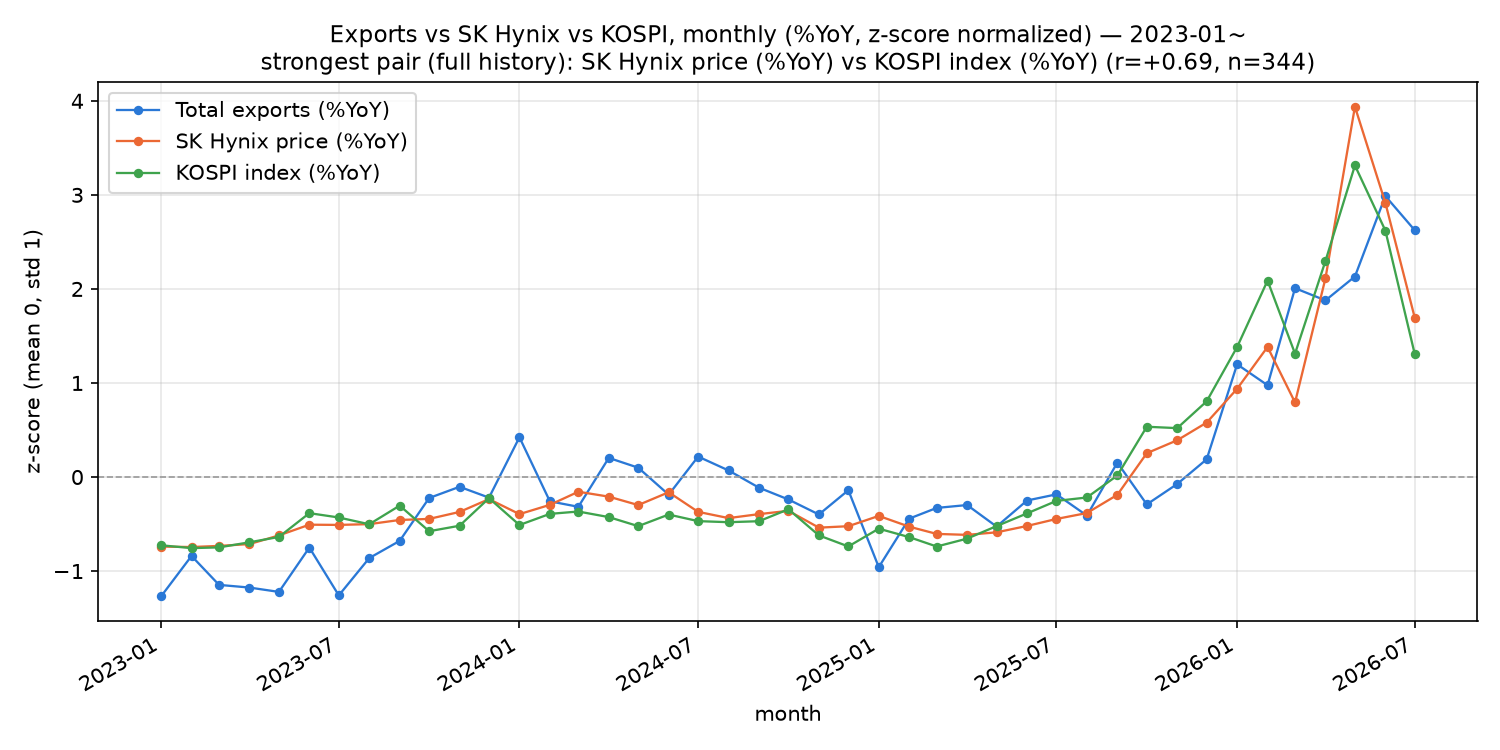
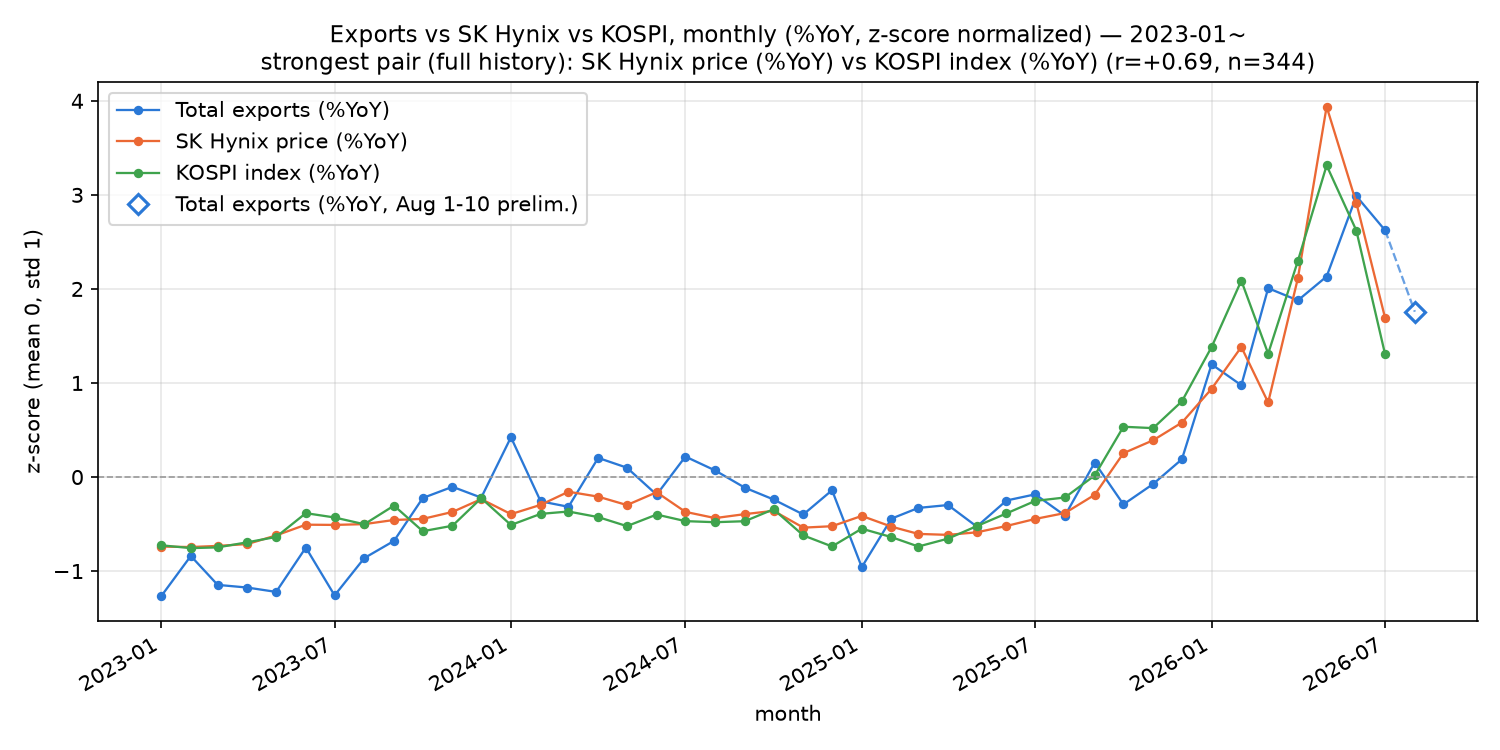
feat: 관세청 10일 잠정치를 차트에 '다음 점'으로 미리 표시
사용자 질문 → 답 → 반영:
'다음 수출입통계는 9월1일에 발표하는 건가? 그 전에 어느 수준인지 알 수
있는 방법이 있어?' — 있다: 관세청은 최종치(다음달 1일) 전에 1~10일
잠정치(그 달 11일), 1~20일 잠정치(21일)를 먼저 낸다. '잠정치를 조사해서
그래프에 적절히 추가해줘 ... 점도표나 점선으로 ... 예측 가능한 다음 점을
찍어보자'에 대한 구현:

- data/manual_inputs/exports_preliminary.yaml(신규, 수동) — 8월 1~10일
  잠정치 실제 값(관세청 2026-08-11 발표: 총수출 213억불 +45.3%YoY, 반도체
  99.5억불 +155.4%YoY, 출처 URL 포함). 구조화된 수출 API가 data.go.kr에
  없어(수입 쪽만 있음) 보도자료 손 갱신 방식 — CLAUDE.md 7.3류 예외와
  같은 성격.
- load_exports_preliminary(): latest 블록을 읽되, target_month가 오늘
  기준 '진행 중인 달'이 아니면 None — 달이 지나도록 안 갱신된 낡은
  잠정치가 잘못 찍히는 걸 막는다.
- _render_monthly_chart(월별 메인+확대 차트 공용): 총수출 실측 마지막
  점에서 점선으로 이어지는 속이 빈 파란 마름모로 잠정치를 그린다 — 실측과
  같은 파란색이지만 선/마커를 확실히 다르게 해서 확정치가 아님을 범례에서
  바로 알 수 있게. z-score는 실측 total_exports_yoy 시리즈의 평균/표준편차를
  그대로 재사용(잠정치 자체는 정규화 기준 계산에 안 넣음).
- render_markdown(): '진행 중인 달 잠정치' 절 추가 — 값·출처·근사 방법의
  한계(상반월≠월 전체, 조업일수·통관 타이밍 차이)를 명시. 표·상관계수
  계산에는 여전히 포함 안 함(총수출 %YoY 실측 시리즈는 순수하게 유지).

테스트 2개 추가(51/51 통과): 진행 중인 달과 일치할 때만 값 반환, 낡은
target_month는 무시.

diff --git a/scripts/correlation_analysis.py b/scripts/correlation_analysis.py
@@ -36,6 +36,15 @@ INPUTS (all real, no estimates)
   Price/index YoY% is derived here (close_m / close_{m-12} - 1) * 100 — it is
   not itself a stored series, so a short price history simply yields fewer
   YoY points rather than an error.
+  data/manual_inputs/exports_preliminary.yaml   2026-08-17 added — 관세청
+    10일 단위 수출입 현황 [잠정치] (1~10일 released day 11, 1~20일 released
+    day 21, both ahead of the day-1-of-next-month final figure). Never
+    merged into total_exports_yoy — load_exports_preliminary() surfaces it
+    separately so callers can draw it as a distinctly-styled "next point"
+    (dashed line + hollow marker) rather than pretend it's a real
+    observation. Update the file's `latest` block by hand when a new
+    10-day/20-day release lands (no clean structured export-side API found
+    on data.go.kr as of this writing — only an import-side one).
 
 OUTPUTS
 ────────
@@ -118,6 +127,7 @@ MONTHLY_PRICE_CSV = REPO_ROOT / "sources" / "monthly-price-history.csv"
 DAILY_PRICE_CSV = REPO_ROOT / "sources" / "daily-price-history.csv"
 EXPORTS_ANNUAL_YAML = MANUAL_INPUTS / "exports_annual.yaml"
 KOSPI_ANNUAL_YAML = MANUAL_INPUTS / "kospi_annual.yaml"
+EXPORTS_PRELIMINARY_YAML = MANUAL_INPUTS / "exports_preliminary.yaml"
 OUT_DIR = REPO_ROOT / "monitoring"
 OUT_MD = OUT_DIR / "exports-price-correlation.md"
 OUT_PNG = OUT_DIR / "exports-price-correlation.png"
@@ -225,6 +235,40 @@ def _load_customs_export_yoy() -> pd.Series:
     """관세청 실측 월별 총수출(달러) -> %YoY. build_dataset()에서 이 실측값이
     수동 값(motie_total_exports_yoy)보다 항상 우선한다."""
     return _series_yoy(_load_customs_export_level())
+
+
+def load_exports_preliminary() -> dict | None:
+    """관세청 10일 단위 수출입 현황 [잠정치](data/manual_inputs/
+    exports_preliminary.yaml) — 진행 중인 달이 끝나기 전에 미리 나오는
+    부분기간 수치를 그 달의 %YoY '추정치'로 쓴다. 2026-08-17 사용자 요청.
+
+    중요: total_exports_yoy(실측) 시계열에는 절대 섞지 않는다 — 호출부가
+    이 dict를 받아 별도로(점선/빈 마커) 그려야 한다. 반환값이 이미 지난
+    달(오늘 기준 진행 중인 달이 아님)이면 None — 최신치를 안 챙겨서 낡은
+    잠정치가 이번 달 자리에 잘못 찍히는 걸 막는다."""
+    if not EXPORTS_PRELIMINARY_YAML.exists():
+        return None
+    payload = yaml.safe_load(EXPORTS_PRELIMINARY_YAML.read_text(encoding="utf-8")) or {}
+    latest = payload.get("latest")
+    if not latest:
+        return None
+    target_month = pd.Timestamp(latest["target_month"])
+    if target_month != _current_incomplete_month_start():
+        return None  # 낡은 잠정치 — 이번 달이 이미 지났으면 표시하지 않는다
+    period_start, period_end = latest.get("period_start"), latest.get("period_end")
+    # 차트 범례는 ASCII만(DejaVu Sans엔 한글 글리프가 없음, SERIES_LABELS_CHART와
+    # 같은 이유) — period_label(한글)은 markdown에서만 쓰고, 차트용은 날짜에서
+    # 직접 만든다.
+    label_en = (f"{pd.Timestamp(period_start).strftime('%b %-d')}-"
+                f"{pd.Timestamp(period_end).strftime('%-d')} prelim."
+                if period_start and period_end else "prelim.")
+    return {
+        "date": target_month,
+        "value": float(latest["total_exports_yoy"]),
+        "label": latest.get("period_label", ""),
+        "label_en": label_en,
+        "source": latest.get("source", ""),
+    }
 
 
 def _load_price_level(code: str) -> pd.Series:
@@ -529,7 +573,7 @@ def pairwise_correlations(df: pd.DataFrame) -> list[dict]:
     return out
 
 
-def render_markdown(df: pd.DataFrame, pairs: list[dict]) -> str:
+def render_markdown(df: pd.DataFrame, pairs: list[dict], preliminary: dict | None = None) -> str:
     lines = [
         "# 수출입동향 × SK하이닉스 × 코스피 상관관계",
         "",
@@ -554,6 +598,20 @@ def render_markdown(df: pd.DataFrame, pairs: list[dict]) -> str:
     for month, row in df_full.iterrows():
         cells = [f"{row[c]:.1f}" if pd.notna(row[c]) else "—" for c in SERIES_LABELS]
         lines.append(f"| {month.strftime('%Y-%m')} | " + " | ".join(cells) + " |")
+
+    if preliminary is not None:
+        lines += [
+            "",
+            f"## 진행 중인 달 잠정치 (아직 확정 아님)",
+            "",
+            f"**{preliminary['date'].strftime('%Y-%m')}** 총수출 %YoY 추정: "
+            f"**{preliminary['value']:+.1f}%** — 관세청 {preliminary['label']} 잠정치를 그 달 "
+            "전체의 %YoY로 근사한 값이다(2026-08-17 사용자 요청). 실제 발표값(관세청, "
+            "다음 달 1일 확정치)과 다를 수 있다 — 상반월/월 전체의 조업일수·통관 타이밍 "
+            "차이 때문. 위 표·상관계수 계산에는 포함하지 않았고, 차트에서만 점선+빈 "
+            "마름모로 별도 표시했다.",
+            f"\n출처: {preliminary['source']}" if preliminary.get("source") else "",
+        ]
 
     lines += ["", "## 쌍별 상관계수 (Pearson r, 표본 많은/상관 높은 순)", "",
               "| 지표 A | 지표 B | r | n | 비고 |", "|---|---|---|---|---|"]
@@ -753,7 +811,8 @@ MONTHLY_CHART_COLORS = {
 
 def _render_monthly_chart(df: pd.DataFrame, top_pair: dict | None, out_path: Path,
                            start: pd.Timestamp | None = None, title_note: str = "",
-                           markersize: float | None = None) -> None:
+                           markersize: float | None = None,
+                           preliminary: dict | None = None) -> None:
     """render_chart의 실제 구현 — start를 주면 그 시점부터만 잘라서 그린다
     (2026-08-17 사용자 요청: "2023년부터 zoom in"). z-score는 잘린 구간
     안에서 다시 계산한다 — 전체 이력 기준 z-score를 그대로 쓰면 최근 구간이
@@ -763,7 +822,16 @@ def _render_monthly_chart(df: pd.DataFrame, top_pair: dict | None, out_path: Pat
 
     markersize: None이면 점 없이 선만(전체 이력 차트 — 500개월치를 점까지
     찍으면 너무 빽빽하다). 확대 차트는 표본이 훨씬 적어(3년 안팎) 작은 점을
-    찍어도 안 빽빽하고, 사용자가 명시적으로 요청(2026-08-17)."""
+    찍어도 안 빽빽하고, 사용자가 명시적으로 요청(2026-08-17).
+
+    preliminary: load_exports_preliminary()의 반환값 — 진행 중인 달의
+    "다음 점"을 관세청 10일 단위 잠정치로 미리 찍어본다(2026-08-17 사용자
+    요청: "잠정치로 예측 가능한 다음 점을 찍어보자"). total_exports_yoy의
+    실측 마지막 점에서 점선으로 이어지는 속이 빈 마름모로 그린다 — 실측과
+    같은 파란색이지만 선 스타일과 마커를 확실히 다르게 해서 "이건 확정치가
+    아니다"가 범례만 봐도 드러나게 한다. z-score는 실측 total_exports_yoy
+    시리즈의 평균/표준편차를 그대로 재사용한다(잠정치 자체를 평균/표준편차
+    계산에 넣지 않는다 — 아직 확정 안 된 값이 정규화 기준을 흔들면 안 된다)."""
     if top_pair is None:
         return
     cols = [c for c in ("total_exports_yoy", "hynix_price_yoy", "kospi_yoy") if c in df.columns]
@@ -776,15 +844,32 @@ def _render_monthly_chart(df: pd.DataFrame, top_pair: dict | None, out_path: Pat
     # 2026-08-17: 사용자 요청 — 점 마커를 없애고 선을 얇게 해서(1.8→1.1) 세
     # 곡선의 상승/하강이 점에 가려지지 않고 잘 보이도록.
     fig, ax = plt.subplots(figsize=(10, 5))
+    exports_stats = None  # (mean, std, last_date, last_z) — 잠정치 점을 실측과 같은 척도로 찍기 위해 기억해둔다
     for c in cols:
         series = plot_df[c].dropna()
         if series.empty:
             continue
-        z = (series - series.mean()) / series.std(ddof=0)
+        mean, std = series.mean(), series.std(ddof=0)
+        z = (series - mean) / std
         marker_kwargs = {"marker": "o", "markersize": markersize} if markersize else {}
         ax.plot(z.index, z.values, linewidth=1.1,
                 color=MONTHLY_CHART_COLORS.get(c, "#888888"), label=SERIES_LABELS_CHART[c],
                 **marker_kwargs)
+        if c == "total_exports_yoy":
+            exports_stats = (mean, std, z.index[-1], z.values[-1])
+
+    if preliminary is not None and exports_stats is not None:
+        mean, std, last_date, last_z = exports_stats
+        prelim_date, prelim_value = preliminary["date"], preliminary["value"]
+        if start is None or prelim_date >= start:
+            prelim_z = (prelim_value - mean) / std
+            color = MONTHLY_CHART_COLORS["total_exports_yoy"]
+            ax.plot([last_date, prelim_date], [last_z, prelim_z], linestyle="--", linewidth=1.1,
+                    color=color, alpha=0.7)
+            ax.plot([prelim_date], [prelim_z], marker="D", markersize=7, markerfacecolor="none",
+                    markeredgecolor=color, markeredgewidth=1.5, linestyle="none",
+                    label=f"Total exports (%YoY, {preliminary['label_en']})")
+
     ax.axhline(0, color="#999999", linewidth=0.8, linestyle="--")
     ax.set_title(
         f"Exports vs SK Hynix vs KOSPI, monthly (%YoY, z-score normalized){title_note}\n"
@@ -803,21 +888,23 @@ def _render_monthly_chart(df: pd.DataFrame, top_pair: dict | None, out_path: Pat
     plt.close(fig)
 
 
-def render_chart(df: pd.DataFrame, top_pair: dict | None) -> None:
+def render_chart(df: pd.DataFrame, top_pair: dict | None, preliminary: dict | None = None) -> None:
     """2026-08-17: 사용자가 총수출도 같이 그려달라고 요청 — 원래는 상관 가장
     높은 쌍(하이닉스 vs 코스피) 2개 지표만 그렸는데, render_annual_chart와
     같은 방식(전 지표를 z-score로 겹쳐 그리기)으로 통일했다. 총수출은
     1990~이라 표본이 훨씬 길지만, z-score는 각 지표를 자기 자신의 평균/표준
     편차로 정규화하므로 그 변동폭이 다른 지표에 묻히지 않고 그대로 보인다."""
-    _render_monthly_chart(df, top_pair, OUT_PNG)
+    _render_monthly_chart(df, top_pair, OUT_PNG, preliminary=preliminary)
 
 
-def render_chart_zoom(df: pd.DataFrame, top_pair: dict | None, start: pd.Timestamp) -> None:
+def render_chart_zoom(df: pd.DataFrame, top_pair: dict | None, start: pd.Timestamp,
+                       preliminary: dict | None = None) -> None:
     """render_chart의 확대판 — start 이후 구간만, 그 구간 안에서 재정규화해
     그린다(위 _render_monthly_chart 참고). 작은 점 마커 포함(2026-08-17
     사용자 요청)."""
     _render_monthly_chart(df, top_pair, OUT_PNG_ZOOM, start=start,
-                           title_note=f" — {start.strftime('%Y-%m')}~", markersize=3.5)
+                           title_note=f" — {start.strftime('%Y-%m')}~", markersize=3.5,
+                           preliminary=preliminary)
 
 
 def render_annual_chart(df: pd.DataFrame, top_pair: dict | None) -> None:
@@ -1018,19 +1105,23 @@ def main() -> int:
         return 1
 
     pairs = pairwise_correlations(df)
+    preliminary = load_exports_preliminary()
     OUT_DIR.mkdir(parents=True, exist_ok=True)
-    OUT_MD.write_text(render_markdown(df, pairs), encoding="utf-8")
+    OUT_MD.write_text(render_markdown(df, pairs, preliminary=preliminary), encoding="utf-8")
 
     trustworthy = [p for p in pairs if pd.notna(p["r"]) and p["n"] >= MIN_TRUSTWORTHY_N]
     top_pair = trustworthy[0] if trustworthy else (pairs[0] if pairs and pd.notna(pairs[0]["r"]) else None)
-    render_chart(df, top_pair)
-    render_chart_zoom(df, top_pair, ZOOM_START)
+    render_chart(df, top_pair, preliminary=preliminary)
+    render_chart_zoom(df, top_pair, ZOOM_START, preliminary=preliminary)
 
     print(f"[월별] {len(pairs)}개 쌍 계산 완료 → {OUT_MD}")
     if OUT_PNG.exists():
         print(f"[월별] 차트 저장 → {OUT_PNG}")
     if OUT_PNG_ZOOM.exists():
         print(f"[월별 확대 {ZOOM_START.strftime('%Y-%m')}~] 차트 저장 → {OUT_PNG_ZOOM}")
+    if preliminary is not None:
+        print(f"  잠정치 다음 점: {preliminary['date'].strftime('%Y-%m')} "
+              f"{preliminary['value']:+.1f}% ({preliminary['label']})")
     for p in pairs:
         r_str = f"{p['r']:+.2f}" if pd.notna(p["r"]) else "N/A"
         print(f"  {p['a']:<18} x {p['b']:<18} r={r_str} n={p['n']}")

diff --git a/tests/test_exposure_reconciliation.py b/tests/test_exposure_reconciliation.py
@@ -1027,6 +1027,74 @@ def test_filter_from_does_not_crash_on_an_empty_series():
     assert list(out2.index) == [pd.Timestamp("2025-01-01")]
 
 
+def test_load_exports_preliminary_returns_the_current_months_estimate():
+    """2026-08-17 user request: draw the next (not-yet-final) point from
+    관세청's 10-day preliminary release. Only surface it when it actually
+    targets the in-progress month — a stale preliminary from a month that's
+    already closed would misleadingly overwrite a real point."""
+    import pandas as pd, tempfile, os, yaml
+    from pathlib import Path
+    import scripts.correlation_analysis as mod
+
+    now = pd.Timestamp.now(tz="UTC").tz_localize(None)
+    current_month = pd.Timestamp(year=now.year, month=now.month, day=1)
+
+    fd, path = tempfile.mkstemp(suffix=".yaml")
+    os.close(fd)
+    try:
+        payload = {
+            "latest": {
+                "target_month": current_month.strftime("%Y-%m-%d"),
+                "period_label": "1일~10일",
+                "period_start": current_month.strftime("%Y-%m-%d"),
+                "period_end": (current_month + pd.Timedelta(days=9)).strftime("%Y-%m-%d"),
+                "total_exports_yoy": 45.3,
+                "source": "관세청 보도자료",
+            }
+        }
+        Path(path).write_text(yaml.safe_dump(payload, allow_unicode=True), encoding="utf-8")
+        real_path = mod.EXPORTS_PRELIMINARY_YAML
+        mod.EXPORTS_PRELIMINARY_YAML = Path(path)
+        try:
+            result = mod.load_exports_preliminary()
+        finally:
+            mod.EXPORTS_PRELIMINARY_YAML = real_path
+        assert result is not None
+        assert result["date"] == current_month
+        assert abs(result["value"] - 45.3) < 1e-9
+        assert "label_en" in result and result["label_en"]  # ASCII chart label always derivable
+    finally:
+        os.remove(path)
+
+
+def test_load_exports_preliminary_ignores_a_stale_target_month():
+    """A preliminary reading left over from a month that has already closed
+    (nobody updated the file after month-end) must not be drawn as if it
+    were still the in-progress estimate."""
+    import pandas as pd, tempfile, os, yaml
+    from pathlib import Path
+    import scripts.correlation_analysis as mod
+
+    fd, path = tempfile.mkstemp(suffix=".yaml")
+    os.close(fd)
+    try:
+        payload = {"latest": {
+            "target_month": "2019-01-01",  # safely in the past regardless of when this test runs
+            "period_label": "1일~10일", "period_start": "2019-01-01", "period_end": "2019-01-10",
+            "total_exports_yoy": 1.0, "source": "test",
+        }}
+        Path(path).write_text(yaml.safe_dump(payload, allow_unicode=True), encoding="utf-8")
+        real_path = mod.EXPORTS_PRELIMINARY_YAML
+        mod.EXPORTS_PRELIMINARY_YAML = Path(path)
+        try:
+            result = mod.load_exports_preliminary()
+        finally:
+            mod.EXPORTS_PRELIMINARY_YAML = real_path
+        assert result is None
+    finally:
+        os.remove(path)
+
+
 if __name__ == "__main__":
     import sys, traceback
     fns = [(n, f) for n, f in sorted(globals().items())

diff --git a/monitoring/exports-price-correlation.md b/monitoring/exports-price-correlation.md
@@ -523,6 +523,12 @@
 | 2026-06 | 70.4 | 199.5 | 807.5 | 176.0 |
 | 2026-07 | 63.0 | 178.8 | 528.2 | 103.2 |
 
+## 진행 중인 달 잠정치 (아직 확정 아님)
+
+**2026-08** 총수출 %YoY 추정: **+45.3%** — 관세청 8월 1일~10일 잠정치를 그 달 전체의 %YoY로 근사한 값이다(2026-08-17 사용자 요청). 실제 발표값(관세청, 다음 달 1일 확정치)과 다를 수 있다 — 상반월/월 전체의 조업일수·통관 타이밍 차이 때문. 위 표·상관계수 계산에는 포함하지 않았고, 차트에서만 점선+빈 마름모로 별도 표시했다.
+
+출처: 관세청 보도자료 (2026-08-11 발표) — https://www.customs.go.kr/kcs/na/ntt/selectNttInfo.do?mi=2891&bbsId=1362&nttSn=10172763
+
 ## 쌍별 상관계수 (Pearson r, 표본 많은/상관 높은 순)
 
 | 지표 A | 지표 B | r | n | 비고 |
